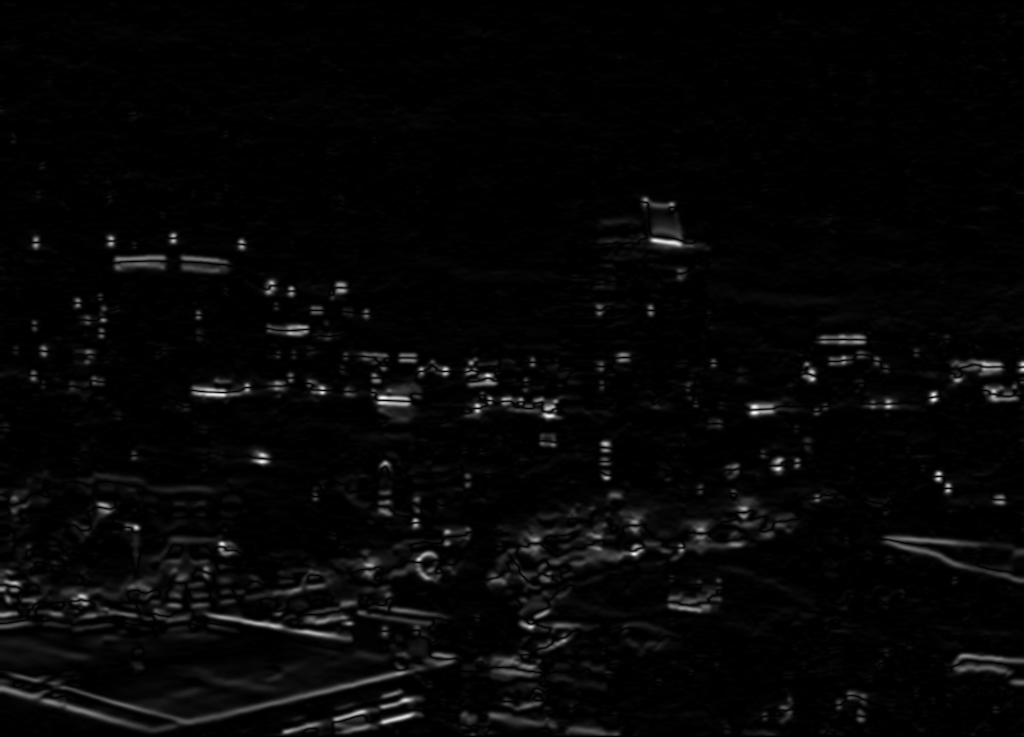
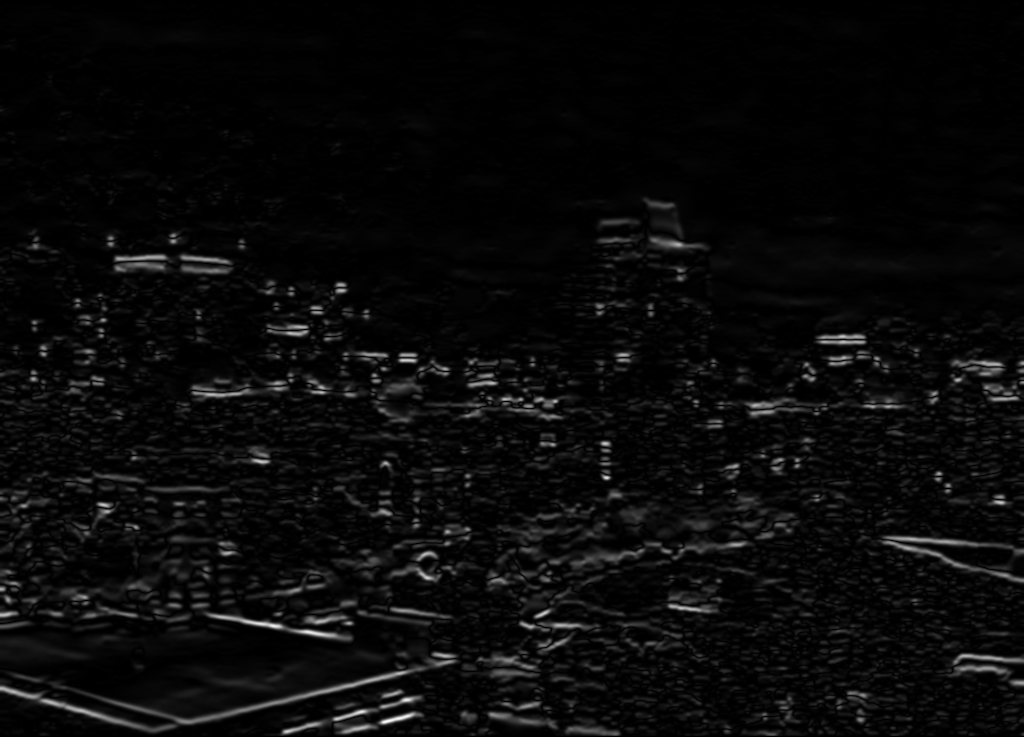
pushing decent code

diff --git a/sky_detection.py b/sky_detection.py
@@ -6,7 +6,7 @@ def preprocess_night(img_bgr: np.ndarray,
                      use_clahe: bool = True,
                      gamma: float = 1.4,
                      denoise_h: int = 10) -> np.ndarray:
-    """
+    """ 
     Returns a preprocessed grayscale image for skyline detection.
     - CLAHE on L-channel helps local contrast
     - Gamma brightening helps separate dark sky/buildings
@@ -211,11 +211,11 @@ if __name__ == "__main__":
 
     y_path, sky_mask, dbg = detect_skyline(
         img,
-        gamma=1.8,
+        gamma=1.5,
         denoise_h=15,
         top_bias=0.2,
-        smoothness=1.8,
-        max_jump=12
+        smoothness=2.0,
+        max_jump=20
     )
 
     cv2.imwrite(f"{args.out_prefix}_mask.png", sky_mask)
